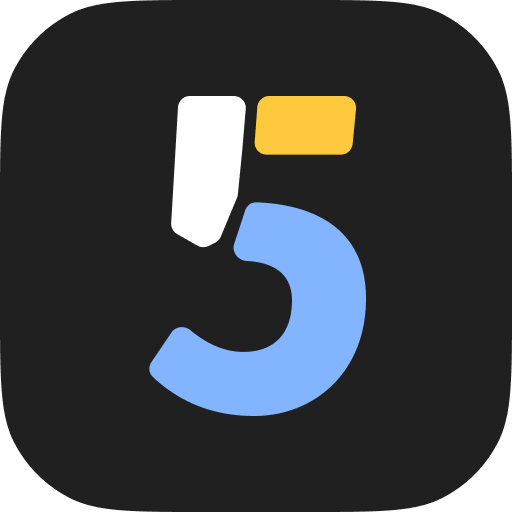
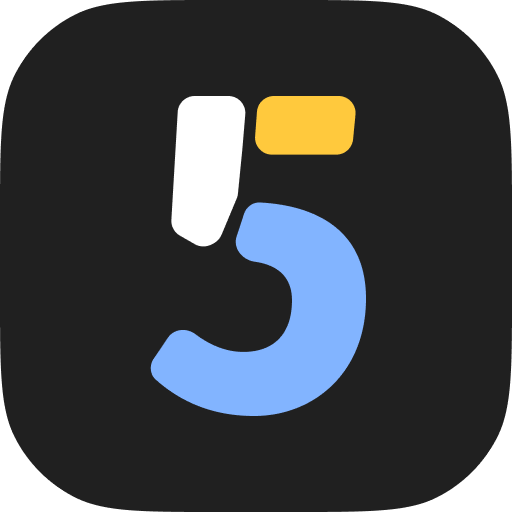
🔥 update images and layout

diff --git a/emails/ConfirmSubscription.tsx b/emails/ConfirmSubscription.tsx
@@ -5,7 +5,7 @@ import { Button, Heading, Hr, Img, Link, Section, Text } from './_components'
 import Layout from './Layout'
 
 const ConfirmSubscriptionEmail = ({ link = 'link.com/confirm?fake-token' }) => {
-  const previewText = `确认订阅 Cali 的动态吗？`
+  const previewText = `确认订阅 5km 的动态吗？`
 
   return (
     <Layout previewText={previewText}>
@@ -14,16 +14,16 @@ const ConfirmSubscriptionEmail = ({ link = 'link.com/confirm?fake-token' }) => {
           src={`${emailConfig.baseUrl}/subscription-email-header.jpg`}
           width="250"
           height="129.28"
-          alt="Cali"
+          alt="5km"
           className="mx-auto my-0"
         />
       </Section>
       <Heading className="mx-0 my-[30px] p-0 text-center text-[24px] font-bold text-black">
-        订阅 Cali 的动态
+        订阅 5km 的动态
       </Heading>
       <Text className="text-[14px] leading-[24px] text-black">Hello!</Text>
       <Text className="text-[14px] leading-[24px] text-black">
-        为了认证此操作，请点击下面的按钮确认订阅 Cali 的动态噢，谢谢 🙏
+        为了认证此操作，请点击下面的按钮确认订阅 5km 的动态噢，谢谢 🙏
       </Text>
       <Section className="mb-[32px] mt-[32px] text-center">
         <Button

diff --git a/app/(main)/blog/page.tsx b/app/(main)/blog/page.tsx
@@ -1,5 +1,6 @@
 import Balancer from 'react-wrap-balancer'
 
+import { PeekabooLink } from '~/components/links/PeekabooLink'
 import { SocialLink } from '~/components/links/SocialLink'
 import { Container } from '~/components/ui/Container'
 
@@ -29,8 +30,19 @@ export default function BlogPage() {
         <h1 className="text-4xl font-bold tracking-tight text-zinc-800 dark:text-zinc-100 sm:text-5xl">
           感谢您的关注
         </h1>
-        <p className="my-6 text-base text-zinc-600 dark:text-zinc-400">
+        <p className="my-4 text-base text-zinc-600 dark:text-zinc-400">
           <Balancer>{description}</Balancer>
+        </p>
+        <p className="my-4">
+          <Balancer>
+              💬 
+            <strong> 新开始，新征途！</strong>
+            过去写的文章都在
+            <PeekabooLink href="https://blog.5km.studio">
+              原博客网站
+            </PeekabooLink>
+            ，也欢迎您去看看！👏
+          </Balancer>
         </p>
         <p className="flex items-center">
           <SocialLink href="/feed.xml" platform="rss" />

diff --git a/app/(main)/Headline.tsx b/app/(main)/Headline.tsx
@@ -4,6 +4,7 @@ import { motion } from 'framer-motion'
 import Balancer from 'react-wrap-balancer'
 
 import { BulbIcon, CometIcon, DesignerIcon, HammerIcon } from '~/assets'
+import { PeekabooLink } from '~/components/links/PeekabooLink'
 import { SocialLink } from '~/components/links/SocialLink'
 
 function Developer() {
@@ -124,7 +125,7 @@ export function Headline() {
           platform="youtube"
         />
         <SocialLink
-          href="mailto:5km@smslit.cn"
+          href="mailto:hi@5km.studio"
           aria-label="我的邮箱"
           platform="mail"
         />

diff --git a/emails/NewReplyComment.tsx b/emails/NewReplyComment.tsx
@@ -9,9 +9,9 @@ const NewReplyCommentEmail = ({
   postLink = 'https://5km.studio',
   postTitle = '测试文章 Lorem ipsum dolor sit amet, consectetur adipisicing elit',
   postImageUrl = 'https://cn.zolplay.com/api/og?title=测试文章',
-  userFirstName = 'Cali',
-  userLastName = 'Castle',
-  userImageUrl = 'https://5km.studio/icon.png',
+  userFirstName = '',
+  userLastName = '5km',
+  userImageUrl = 'https://5km.studio/icon.svg',
   commentContent = '*测试评论*\n- Wow wtf\n- Cool',
 }: {
   postLink?: string | null

diff --git a/emails/NewGuestbook.tsx b/emails/NewGuestbook.tsx
@@ -6,10 +6,10 @@ import { Button, Heading, Hr, Img, Section, Text } from './_components'
 import Layout from './Layout'
 
 const NewGuestbookEmail = ({
-  link = 'https://caliso/guestbook',
-  userFirstName = 'Cali',
-  userLastName = 'Castle',
-  userImageUrl = 'https://5km.studio/icon.png',
+  link = 'https://5km.studio/guestbook',
+  userFirstName = '',
+  userLastName = '5km',
+  userImageUrl = 'https://5km.studio/icon.svg',
   commentContent = '*测试评论*\n- Wow wtf\n- Cool',
 }: {
   link?: string | null

diff --git a/app/(main)/blog/BlogPosts.tsx b/app/(main)/blog/BlogPosts.tsx
@@ -9,7 +9,7 @@ export async function BlogPosts({ limit = 5 }) {
   const posts = await getLatestBlogPosts({ limit, forDisplay: true })
 
   if (posts.length === 0) {
-    return (<strong>🏃 我的文章很快就会发布，不要着急！</strong>)
+    return (<strong>🏃 我的新文章很快就会发布，不要着急！</strong>)
   }
 
   const postIdKeys = posts.map(({ _id }) => kvKeys.postViews(_id))

diff --git a/app/(main)/Activity.tsx b/app/(main)/Activity.tsx
@@ -83,7 +83,7 @@ export function Activity() {
                   animate={{ opacity: 1, scale: 1 }}
                   exit={{ opacity: 0, scale: 0.95 }}
                 >
-                  Cali 在使用 {appLabels[app] ?? app}
+                  5km 在使用 {appLabels[app] ?? app}
                 </motion.div>
               </Tooltip.Content>
             </Tooltip.Portal>

diff --git a/app/blocked/page.tsx b/app/blocked/page.tsx
@@ -6,7 +6,7 @@ export default function BlockedPage() {
       </h1>
       <span className="text-sm">
         如果你认为你不应该被禁，请联系我的邮箱{' '}
-        <a href="mailto:5km@smslit.cn" className="font-bold underline">
+        <a href="mailto:hi@5km.studio" className="font-bold underline">
           hi@cali.so
         </a>
       </span>

diff --git a/app/api/newsletter/route.ts b/app/api/newsletter/route.ts
@@ -50,7 +50,7 @@ export async function POST(req: NextRequest) {
       await resend.sendEmail({
         from: emailConfig.from,
         to: parsed.email,
-        subject: '来自 Cali 的订阅确认',
+        subject: '来自 5km studio 的订阅确认',
         react: ConfirmSubscriptionEmail({
           link: url(`confirm/${token}`).href,
         }),

diff --git a/emails/Layout.tsx b/emails/Layout.tsx
@@ -36,7 +36,7 @@ export default function Layout({
             <Hr className="mx-0 my-[20px] h-px w-full bg-zinc-100" />
             <Section>
               <Img
-                src={`${emailConfig.baseUrl}/icon.png`}
+                src={`${emailConfig.baseUrl}/icon.svg`}
                 width="24"
                 height="24"
                 alt="Cali"

diff --git a/app/admin/newsletters/new/page.tsx b/app/admin/newsletters/new/page.tsx
@@ -42,7 +42,7 @@ export default function CreateNewsletterPage() {
     await resend.sendEmail({
       subject: data.subject,
       from: emailConfig.from,
-      to: '5km@smslit.cn',
+      to: 'hi@5km.studio',
       reply_to: emailConfig.from,
       bcc: Array.from(subscriberEmails),
       react: NewslettersTemplate({

diff --git a/config/email.ts b/config/email.ts
@@ -1,5 +1,5 @@
 export const emailConfig = {
-  from: '5km@smslit.cn',
+  from: 'hi@5km.studio',
   baseUrl:
     process.env.VERCEL_ENV === 'production'
       ? `https://5km.studio`
